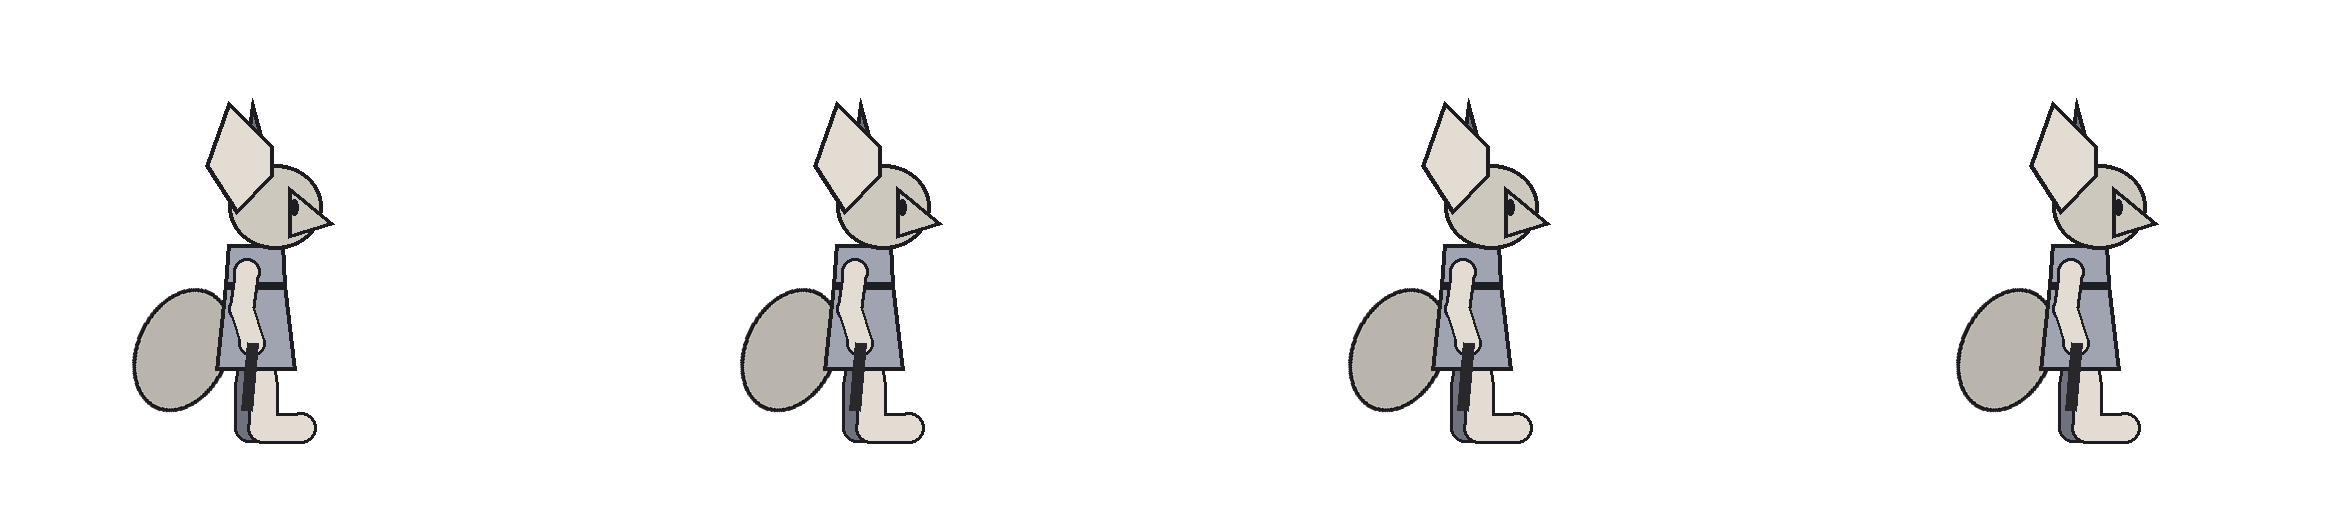
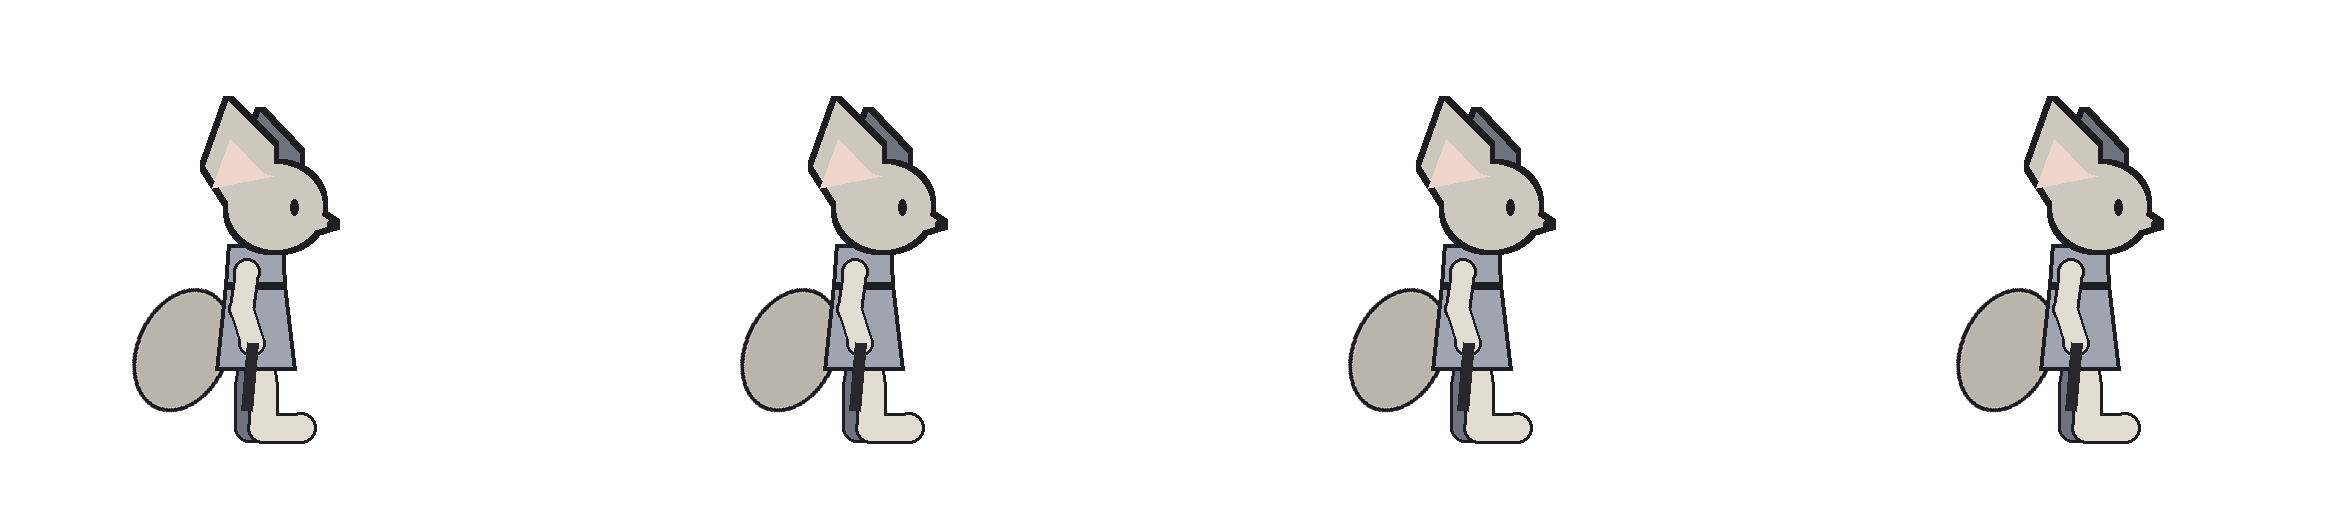
Plan the hero redesign and fix the mannequin's extra ear and buried far arm
The muzzle triangle read as a third ear and the far arm hung inside the
coat. Head, snout and near ear are now one silhouette with only the far
ear tip showing, and the far arm swings from the far shoulder. The
redesign brief for Codex keeps the fox's features while dropping parts
that blur at sprite size.

Claude-Session: https://claude.ai/code/session_01VB3YRY85BRZp35ofUtdcUW

diff --git a/tools/hero_art/mannequin.py b/tools/hero_art/mannequin.py
@@ -26,7 +26,7 @@ P = {
     "nose": (0.23, 0.37), "chin": (0.095, 0.41),
     "ear_tip": (-0.08, 0.008), "ear_front": (0.05, 0.23), "ear_back": (-0.057, 0.34),
     "far_ear_tip": (-0.01, 0.0), "ear_bulge_back": (-0.15, 0.2), "ear_bulge_front": (0.05, 0.14),
-    "collar": 0.43, "shoulder": (-0.027, 0.51), "upper_arm": 0.11, "forearm": 0.105,
+    "collar": 0.43, "shoulder": (-0.027, 0.51), "far_shoulder": (0.02, 0.50), "upper_arm": 0.11, "forearm": 0.105,
     "waist": 0.55, "coat_bottom": 0.80, "chest_w": 0.17, "hem_w": 0.24,
     "hip": (0.0, 0.70), "thigh": 0.15, "shin": 0.12, "foot": 0.14,
     "tail_root": (-0.08, 0.66), "tail_c": (-0.217, 0.74), "tail_r": (0.135, 0.19),
@@ -35,6 +35,7 @@ P = {
 
 NEAR, FAR, BODY, HEAD, TAIL = (226, 220, 210), (110, 114, 124), (160, 164, 176), (205, 200, 190), (185, 180, 172)
 LINE = (30, 30, 34)
+EAR_IN = (238, 214, 206)
 FAN = (40, 40, 44)
 
 
@@ -56,6 +57,16 @@ def capsule(d, pts, w, fill):
         for p in pts:
             r = width / 2
             d.ellipse((p[0] - r, p[1] - r, p[0] + r, p[1] + r), fill=col)
+
+
+def silhouette(im, draw, fill, line=5):
+    """Fill the union of the shapes drawn by draw(ImageDraw on a mask) with one outer outline."""
+    from PIL import ImageFilter
+    mask = Image.new("L", im.size, 0)
+    draw(ImageDraw.Draw(mask))
+    edge = mask.filter(ImageFilter.MaxFilter(2 * line + 1))
+    im.paste(LINE, (0, 0), edge)
+    im.paste(fill, (0, 0), mask)
 
 
 def poly(d, pts, fill):
@@ -96,7 +107,8 @@ def draw_pose(pose):
 
     def arm(side):
         sa, ea = pose[side + "_arm"]
-        s = (P["shoulder"][0] * H, P["shoulder"][1] * H)
+        key = "far_shoulder" if side == "far" else "shoulder"
+        s = (P[key][0] * H, P[key][1] * H)
         e, w = limb_points(s, sa, P["upper_arm"] * H, sa + ea, P["forearm"] * H)
         return [T(s, True), T(e, True), T(w, True)], sa + ea
 
@@ -127,19 +139,30 @@ def draw_pose(pose):
     poly(d, [T(p, True) for p in coat], BODY)
     d.line([T((-cw * 1.1, wa), True), T((cw * 1.05, wa), True)], fill=LINE, width=8)  # sash line
 
-    # far ear, head, near ear
-    poly(d, [U("ear_front"), U("far_ear_tip"), U("ear_back")], FAR)
+    # Head, snout and near ear are one silhouette so no inner outline reads as an extra ear.
+    # The far ear is the same leaf, smaller, a little forward and dark, behind the head.
     sc, sr = U("skull_c"), P["skull_r"] * H
-    d.ellipse((sc[0] - sr * 1.1, sc[1] - sr, sc[0] + sr * 1.1, sc[1] + sr), fill=HEAD, outline=LINE, width=4)
-    poly(d, [(sc[0] + sr * 0.3, sc[1] - sr * 0.5), U("nose"), U("chin")], HEAD)
-    def ear_pt(key):  # the near ear tilts back around its base by pose["ear"] degrees
+
+    def ear_pt(key, shift=(0.0, 0.0), scale=1.0):  # ears tilt back around their base by pose["ear"]
         b = P["ear_back"]
         v = rot((P[key][0] - b[0], P[key][1] - b[1]), -pose.get("ear", 0))
-        return T(((b[0] + v[0]) * H, (b[1] + v[1]) * H), True)
+        return T(((b[0] + v[0] * scale + shift[0]) * H, (b[1] + v[1] * scale + shift[1]) * H), True)
 
-    poly(d, [U("ear_front"), ear_pt("ear_bulge_front"), ear_pt("ear_tip"), ear_pt("ear_bulge_back"), U("ear_back")], NEAR)
-    eye = U("skull_c")
-    d.ellipse((eye[0] + sr * 0.35, eye[1] - 8, eye[0] + sr * 0.55, eye[1] + 8), fill=LINE)
+    leaf = ["ear_front", "ear_bulge_front", "ear_tip", "ear_bulge_back", "ear_back"]
+    far = [ear_pt(k, (0.09, 0.0), 0.9) for k in leaf]
+    silhouette(im, lambda m: m.polygon(far, fill=255), FAR)
+
+    def head(m):
+        m.ellipse((sc[0] - sr * 1.1, sc[1] - sr, sc[0] + sr * 1.1, sc[1] + sr), fill=255)
+        m.polygon([(sc[0], sc[1] - sr * 0.55), U("nose"), U("chin"), (sc[0], sc[1] + sr * 0.8)], fill=255)
+        m.polygon([ear_pt(k) for k in leaf], fill=255)
+
+    silhouette(im, head, HEAD)
+    d = ImageDraw.Draw(im)
+    d.polygon([ear_pt("ear_front", scale=1.0)] + [ear_pt(k, (0.0, 0.03), 0.75) for k in ("ear_bulge_front", "ear_tip", "ear_bulge_back")], fill=EAR_IN)
+    n = U("nose")
+    d.ellipse((n[0] - 7, n[1] - 6, n[0] + 5, n[1] + 6), fill=LINE)
+    d.ellipse((sc[0] + sr * 0.35, sc[1] - 8, sc[0] + sr * 0.55, sc[1] + 8), fill=LINE)
 
     # near arm with closed fan
     pts, _ = arm("near")
@@ -162,9 +185,9 @@ IDLE = dict(lean=0, near_leg=(8, 0), far_leg=(-8, 0), near_arm=(-8, 25), far_arm
 
 # Run: contact, passing, flight, then the same with legs swapped. Arms swing against the legs.
 RUN_STEP = [
-    dict(near_leg=(32, 15), far_leg=(-28, -70), near_arm=(-35, 70), far_arm=(30, 60), tail=10, ear=12, bob=0.0),
+    dict(near_leg=(32, 15), far_leg=(-28, -70), near_arm=(-55, 35), far_arm=(30, 60), tail=10, ear=12, bob=0.0),
     dict(near_leg=(0, -10), far_leg=(35, -40), near_arm=(0, 60), far_arm=(-5, 55), tail=0, ear=14, bob=0.02),
-    dict(near_leg=(-38, -55), far_leg=(45, 5), near_arm=(35, 60), far_arm=(-35, 65), tail=-10, ear=16, bob=0.05),
+    dict(near_leg=(-38, -55), far_leg=(45, 5), near_arm=(35, 60), far_arm=(-55, 35), tail=-10, ear=16, bob=0.05),
 ]
 
 

diff --git a/docs/plan/HERO_REDESIGN_BRIEF.md b/docs/plan/HERO_REDESIGN_BRIEF.md
@@ -1,0 +1,75 @@
+# 주인공 리디자인 지시서 (2026-10-10)
+
+## 왜
+
+사용자 결정(2026-10-10): 복장 등을 Codex와 함께 리디자인한다. 게임 크기에서는 견갑·토시·술이 뭉개진다. **특징은 눈에 잘 보이게 살리되, 뭉개지지 않게** 다시 그린다.
+
+사용자가 지적한 문제 두 가지도 이번 디자인에서 함께 막는다.
+- **귀가 3개로 보인다.** 앞 1개와 뒤 2개로 읽힌다.
+- **뒤쪽 팔이 부자연스럽다.** 계속 몸 뒤에 박혀 있고, 위치도 어색하다.
+
+리디자인이 확정될 때까지 run 재생성(HERO_FRAMES_PLAN "2차")은 멈춘다. 확정되면 Claude가 새 그림으로 마네킹 치수를 다시 재고 나서 재생성한다.
+
+## 남길 특징
+
+1. 아주 큰 사막여우 귀 두 개
+2. 크림색 털과 큰 꼬리
+3. 남색 철릭(허리 아래로 퍼지는 치마폭)
+4. 주홍 허리띠
+5. 검은 철부채(놋쇠 끝, 주홍 술)
+6. 차분한 문관 인상
+
+## 규칙: 키 128px에서 읽히게
+
+- **작은 장식은 없애거나 큰 덩어리 하나로 합친다.** 크기의 기준은 이렇다. 키 128px로 줄였을 때 5px(키의 약 4%)보다 작은 부품은 넣지 않는다. 그런 부품은 리벳, 가는 테두리, 얇은 끈, 작은 술 같은 것들이다.
+  - 견갑: 없애거나, 어깨를 덮는 단순한 판 하나로 만든다. 판 테두리는 놋쇠 한 줄이고 리벳은 없다.
+  - 토시: 팔뚝마다 어두운 띠 하나로 만든다. 장식 무늬는 넣지 않는다.
+  - 술: 부채 술 하나만 남기고, 더 굵고 크게 만든다. 허리띠 끝은 넓은 천 두 가닥으로 한다.
+  - 행전: 밝은 띠 하나로 만들거나 장화에 합친다.
+- **실루엣이 먼저다.** 귀, 꼬리, 치마폭, 부채는 검은 실루엣만 봐도 알아볼 수 있어야 한다.
+- **색은 바탕색 5~6개로 제한한다.** 털, 남색, 주홍, 검정/어두운 회색, 놋쇠, 흰 속옷이고, 색마다 밝은 단과 어두운 단을 하나씩 둔다.
+- **외곽선 두께는 키의 약 2.5%로 통일한다.** 골렘과 같은 굵은 어두운 선이다.
+- **움직일 때 따라다녀야 하는 작은 매달린 부품은 최소로 한다.** 칸마다 달라지기 쉬운 부분이라서다.
+
+## 규칙: 귀는 딱 두 개
+
+- 옆모습에서는 앞쪽 귀 하나가 크게 보이고, 뒤쪽 귀는 그 뒤로 **끝만 조금** 보인다. 뒤쪽 귀는 한 단 어둡게 칠한다.
+- 귀 안쪽 무늬, 털 뭉치, 머리 위 털끝이 또 다른 귀 모양으로 읽히지 않게 한다.
+
+## 규칙: 팔이 몸에 묻히지 않게
+
+- **소매 색이 철릭 몸판과 달라야 한다.** 지금은 남색 팔이 남색 몸 위에 겹쳐서 팔이 사라진다. 소매에 흰 속옷이 드러나는 넓은 부분을 두거나, 팔뚝 띠를 밝은 색으로 바꾸는 식으로 처리한다.
+- 뒤쪽 팔과 다리는 한 단 어둡게 칠한다(앞뒤 구분).
+- 뒤쪽 어깨는 몸의 반대편에 있다. 팔을 앞으로 흔들면 손이 가슴 앞으로 나오고, 뒤로 흔들면 팔꿈치가 등 뒤로 보인다. **몸통 안에 숨은 채 고정하지 않는다.**
+
+## Codex 작업 1: 리디자인 시안판
+
+첨부: `assets/hero/raw/hero_side_final.png`(현재 확정 디자인), `docs/plan/hero_refs/golem_style.png`(게임 속 골렘, 화풍·선 굵기 기준).
+
+저장: `assets/hero/raw/redesign_board.png`. 프롬프트는 `docs/HERO_ART_PROMPTS.md`에 추가한다.
+
+```text
+Character redesign sheet for a 2D platformer sprite, based on the attached fennec fox civil official (image 1). Same art style as the attached stone golem (image 2): thick dark outlines about 2.5% of the character height, two to three tone cel shading.
+Keep the identity: two very large fennec ears, sandy cream fur, big fluffy tail, navy cheollik coat with a skirt that flares below the waist, rust-orange sash, black iron fan with brass tips and one rust tassel, calm scholarly expression.
+Simplify for a sprite shown about 128 px tall: remove rivets, thin trims, thin cords and small tassels. Shoulder guard either removed or one simple plate with a single brass rim. Forearm guards are one dark band each. Leg wraps are one light band or merged into the boots. Keep one bold tassel on the fan and two broad sash tails. Limit the palette to six base colors with one light and one dark step each.
+Exactly two ears: in side view the near ear is large and the far ear shows only its tip behind it, one shade darker. Nothing else on the head may read as an ear.
+Sleeves must contrast with the navy coat body (for example a broad white under-sleeve showing), so the arms stay visible in front of the body. Far-side arm and leg one shade darker.
+Show three variants side by side, labelled only A, B, C: A close to the original, B moderately simplified, C boldly simplified. Each variant: strict side view facing right, full body, standing, closed fan held down in the near paw. Under each variant, the same figure shrunk to 128 px tall and 64 px tall. Flat light grey background, no other text, no fox-fire wisps.
+```
+
+## 사용자 → Claude → Codex
+
+1. 사용자가 A·B·C 중 하나를 고르거나 섞으라고 한다. 바꿀 점도 적는다.
+2. Codex가 고른 안으로 확정 옆모습 `hero_side_final_v4.png`를 뽑는다. 첨부는 시안판과 현재 확정 그림이다. 규격은 지금 확정 그림과 같다. 엄격한 옆모습, 서 있는 자세, 부채는 접어서 아래로 든다.
+3. Claude가 v4로 다시 잰다.
+   - `tools/hero_art/mannequin.py`의 기준점 `P`를 v4에 맞춰 고친다.
+   - 비교판으로 귀·팔 위치를 확인한다.
+4. 그다음 HERO_FRAMES_PLAN "2차" 순서로 idle·run을 다시 뽑는다. 첨부는 v4와 마네킹이다.
+
+## Claude 검수 기준 (시안판)
+
+- 128px·64px 축소본에서 6개 특징이 다 보이는가.
+- 귀가 두 개로만 읽히는가.
+- 소매가 몸판과 구분되는가.
+- 외곽선이 골렘과 비슷한 굵기인가.
+- 원래 인상(차분한 문관 여우)이 남아 있는가.

diff --git a/HANDOFF.md b/HANDOFF.md
@@ -43,7 +43,7 @@
 1. 완료(2026-10-09): 새 방 5~8 사용자 플레이 판정 "나름 재밌었다". 5·8 굴뚝(벽 점프 없이 통과)·8 탄환 방(탄환 없이 통과) 우회는 남아 있음. 사용자가 불편을 말하면 Claude가 재설계하고 Codex가 경로 테스트를 고친다.
 2. 사용자: 골렘 튕기기 장난감 2차 플레이 판정(피드백 반영본, PR #2). "시키지 않았는데 다시 붙고 싶은가", 기존 골렘전과 비교. 약점 열림 규칙과 난이도(창 길이) 의견. 구현 완료(Claude), `docs/GOLEM_BASH_REPORT.md`.
 3. 사용자: 효과음 귀 판정(너무 큰/작은/거슬리는 소리, 빠진 순간). 말하면 Claude가 `MIX` 숫자나 `make_sfx.py` 합성식을 고친다.
-4. 주인공: 통그림 프레임(`docs/plan/HERO_FRAMES_PLAN.md`). idle 4칸·run 6칸이 게임에 들어가 있다(`HeroFrames.gd`). 사용자 판정(2026-10-10): 신체 비율이 미묘하게 안 맞는다. **다음: Codex가 같은 문서 "2차: 포즈 가이드 방식"대로 run 6칸을 마네킹 포즈 가이드(`docs/plan/hero_refs/poses/run_pose.png`)와 함께 다시 뽑는다(`assets/hero/frames/raw/run_v2.png`).** 그 뒤 Claude가 `tools/hero_art/measure.py`로 비율을 검사하고 머리 고정을 적용해 게임에 넣는다. 픽셀아트 전환은 검토 후 보류(골렘·배경까지 다시 그려야 하고 비율 문제는 그대로라서). 디자인 단순화는 사용자 결정 대기.
+4. 주인공: 통그림 프레임(`docs/plan/HERO_FRAMES_PLAN.md`). idle 4칸·run 6칸이 게임에 들어가 있다(`HeroFrames.gd`). 사용자 판정(2026-10-10): 신체 비율이 미묘하게 안 맞는다 → 마네킹 포즈 가이드·비율 검사 도구를 만들었다(`tools/hero_art/`). 이어서 사용자 결정: **먼저 복장 등을 리디자인한다.** 견갑·토시·술이 뭉개지니 특징은 살리고 단순하게, 귀가 3개로 보이는 문제와 뒤쪽 팔이 몸에 박히는 문제도 고친다. **다음: Codex가 `docs/plan/HERO_REDESIGN_BRIEF.md`의 "작업 1" 시안판(`assets/hero/raw/redesign_board.png`)을 뽑는다 → 사용자가 고른다 → v4 확정 → Claude가 마네킹 치수를 다시 잰다 → idle·run 재생성.** run 재생성은 그때까지 멈춤. 픽셀아트 전환은 보류.
 5. 둘 다 통과하면: 움직임 + 보스를 묶은 짧은 구간(방 몇 개 + 보스 하나)으로 다음 관문 설계.
 
 ## 문서 지도
@@ -60,6 +60,8 @@
 - `AGENTS.md` — Codex 작업 규칙. `CLAUDE.md` — Claude 진입점.
 
 ## 최신 프레임 인계 (2026-10-10)
+
+3차(2026-10-10): 리디자인 먼저. `docs/plan/HERO_REDESIGN_BRIEF.md`. 마네킹은 귀 두 개만 보이게(머리·앞귀 한 실루엣, 뒷귀는 끝만), 뒤쪽 팔은 몸 반대편 어깨에서 크게 흔들리게 고쳤다.
 
 2차(2026-10-10): 비율 어긋남 측정, 마네킹 포즈 가이드·비율 검사 도구 추가(`tools/hero_art/`). Codex run 재생성 대기. 상세 HERO_FRAMES_PLAN "2차: 포즈 가이드 방식".
 

diff --git a/docs/plan/DIRECTION.md b/docs/plan/DIRECTION.md
@@ -81,3 +81,5 @@
 - 2026-10-10: 사용자 판정 부품 리그 전부 어색함. "에셋은 만들면 된다" → 주인공 동작은 통그림 프레임으로 간다(HERO_FRAMES_PLAN). 여우불 제거. 공격은 모든 방에서 가능.
 
 - 2026-10-10: 사용자 판정 GPT 프레임의 신체 비율이 미묘하게 안 맞음. 마네킹 포즈 가이드 + 비율 자동 검사 + 머리 고정 방식으로 다시 뽑기로 함(HERO_FRAMES_PLAN 2차). 픽셀아트 전환은 보류: 골렘·배경까지 바꿔야 하고 비율 문제는 그대로 남는다.
+
+- 2026-10-10: 사용자 결정 주인공 복장 등 리디자인을 Codex와 먼저 한다. 견갑·토시·술은 뭉개지니 특징은 잘 보이게 살리고 단순하게(HERO_REDESIGN_BRIEF). 마네킹의 귀 3개로 보임·뒤쪽 팔 박힘 지적 → Claude가 마네킹 수정.

diff --git a/docs/plan/HERO_FRAMES_PLAN.md b/docs/plan/HERO_FRAMES_PLAN.md
@@ -134,6 +134,8 @@ Sprite animation strip of the attached fennec fox character (keep the design, co
 
 ### Codex 작업: run 6칸 다시 뽑기
 
+**멈춤(2026-10-10):** 사용자가 먼저 리디자인하기로 했다(`HERO_REDESIGN_BRIEF.md`). v4가 확정되면 Claude가 마네킹 치수를 다시 재고, 아래 첨부 1을 v4로 바꿔서 진행한다.
+
 첨부는 순서대로 세 장이다.
 1. `assets/hero/raw/hero_side_final.png`
 2. `assets/hero/frames/raw/idle.png`
